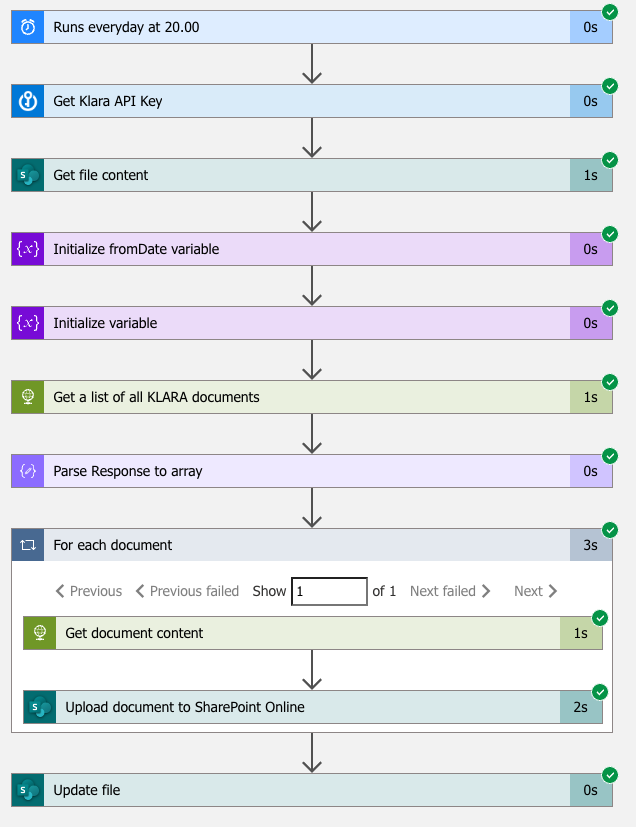
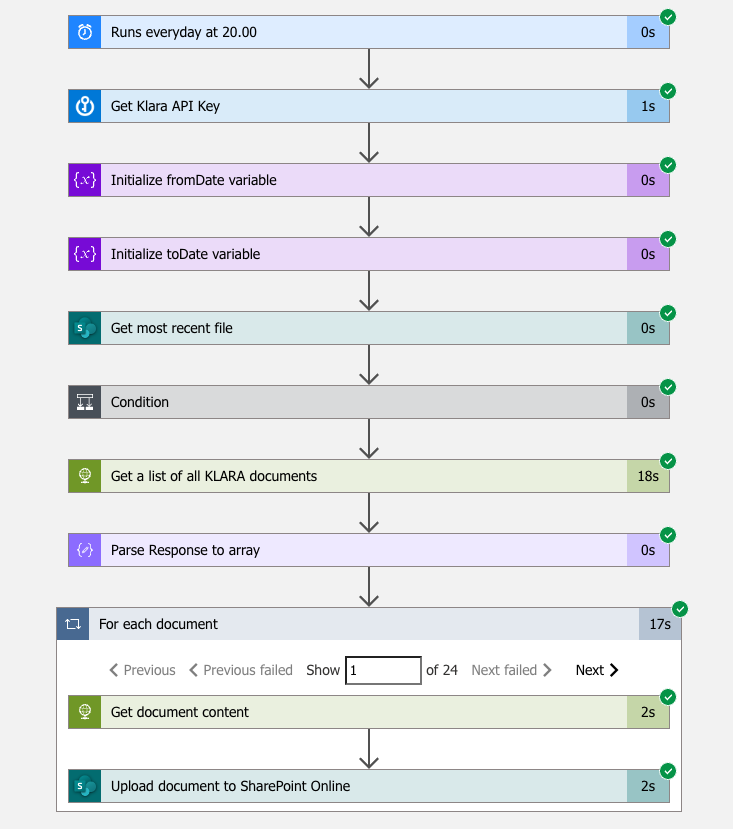
fixed post

Changed region(s): [[0.0, 0.0, 0.9858, 0.9976]]

diff --git a/content/post/epost-digitalisierung-1/index.md b/content/post/epost-digitalisierung-1/index.md
@@ -1,6 +1,6 @@
 ---
 title: Moderne Prozessdigitalisierung - Teil 1
-description: ePost Digitalisierung
+description: Wie wir mit ePost und Azure Logic Apps Briefe empfangen
 slug: epost-digitalisierung-1
 date: 2023-10-19 00:00:00+0000
 image: cover.png
@@ -18,100 +18,97 @@ tags:
     - Prozess   
 ---
 
-## Prozess-Digitalisierung: Das Gegenmittel gegen den Fachkräftemangel
+## Digitalisierung im Geschäftsalltag: Ein Leitfaden für Business Leader
 
-In einer Welt, die zunehmend von Technologie und Daten geprägt ist, kann kein Unternehmen es sich leisten, den Trend der Prozess-Digitalisierung zu ignorieren. Dies wird umso deutlicher, wenn wir die wachsende Herausforderung des Fachkräftemangels miteinbeziehen. Die Digitalisierung von Geschäftsprozessen bietet nicht nur eine Chance, effizienter und wettbewerbsfähiger zu werden, sondern auch, den Mangel an qualifiziertem Personal zu kompensieren. Durch automatisierte Systeme, cloudbasierte Lösungen und innovative Algorithmen können Unternehmen Aufgaben und Workflows optimieren, was wiederum zu einer Entlastung des menschlichen Personals führt.
+In der heutigen, von Technologie durchdrungenen Welt ist die Digitalisierung von Geschäftsprozessen nicht mehr nur ein "Nice-to-have", sondern ein Muss. In diesem Artikel zeigen wir Ihnen, wie Sie mit modernen Tools wie ePost und Azure Logic Apps Ihre Geschäftsprozesse optimieren können.
 
-In diesem Blog Post möchte ich Anhand eines einfachen Beispiel's zeigen, wie Prozess Digitalisierung aussehen kann.
+### Warum Prozessdigitalisierung?
 
-## Der Prozess
+Der Fachkräftemangel ist eine wachsende Herausforderung. Hier kommt die Prozessdigitalisierung ins Spiel: Sie ermöglicht es Unternehmen, effizienter und wettbewerbsfähiger zu werden und den Mangel an qualifiziertem Personal zu kompensieren. Automatisierte Systeme, cloudbasierte Lösungen und innovative Algorithmen können Unternehmen dabei helfen, ihre Workflows zu optimieren.
 
-Bei unscripted nutzen wir das ePost Angebot der schweizerischen Post. Dies ermöglicht es uns, analoge Briefe durch die Post einscannen zu lassen. Wir können die Briefe danach von überall und zentral auf der Weboberfläche einsehen. Leider ist die Weboberfläche sehr limitiert, wir können die Briefe einsehen, herunterladen und manuelle Tags vergeben.
+### Ein praktisches Beispiel: ePost Digitalisierung
 
-Wir sind nun mit einem typisches Problem von vielen SaaS Lösungen konfrontiert. Sie lösen ein Problem, jedoch schaffen sie Datensilos die man selbst integrieren muss. Dies ist vorallem für KMU's eine grosse Herausforderung, da oft das Know-How fehlt wie man die zur verfügung stehenden Schnittstellen nutzen kann.
+Bei unscripted nutzen wir das ePost Angebot der Schweizerischen Post. Dieses System ermöglicht es uns, physische Briefe digitalisieren zu lassen. Aber wie viele SaaS-Lösungen hat auch ePost seine Grenzen. Das Hauptproblem? Datensilos.
 
-In unserem Beispiel werden wir die Daten herunterladen und auf unsere eigene Datenablage speichern. Wir werden die No/Low-Code Plattform Azure Logic Apps verwenden um diesen Prozess abzubilden, da dieser viele Konnektoren für die Verbindung beliebter Services bietet.
+### Die Lösung: Integration mit Azure Logic Apps
 
-## Herangehensweise
+Azure Logic Apps bietet eine No/Low-Code Plattform, die eine einfache Integration ermöglicht. Mit dieser Plattform können wir Daten aus ePost herunterladen und in unserer eigenen Datenablage speichern. 
+
+## Umsetzung
 
 ### Prozess dokumentieren
 
-Um den Prozess zu digitalisieren müssen wir die involvierten Services identifizieren und verstehen, wie wir diese einbinden können. In unserem Beispiel haben wir zwei Services, den ePost Service und unsere Datenablage, in unserem Fall SharePoint. Danach zeichnen wir einen Prozessablauf auf um den Prozess visuell abzubilden. Ich habe diesen einfachen Prozess im untenstehenden BPMN Diagramm abgebildet.
+Um den Prozess zu digitalisieren identifizieren wir die zu integrierenden Services: ePost und SharePoint (unsere Datenablage). Zur Viusalisierung habe ich den Prozess aufgezeichnet.
 
 ![BPMN Diagramm des beschriebenen Prozesses](epost-prozess.png) 
 
-An dieser stelle optimieren wir den Prozess noch ein wenig. Wir wollen ja nicht jedes mal alle Dokumente erneut herunterladen und speichern. Aktuell haben wir noch nicht viele Dokumente im ePost Portal aber nach einigen Geschäftsjahren werden sich dort einige Dokumente ansammeln. Deshalb wollen wir nur die neu hinzugefügten Dokumente herunterladen, was im untenstehenden Diagramm abgebildet ist.
+Um den Prozess noch effizienter zu gestalten, laden wir nur die neuen Dokumente aus ePost herunter, wie im nachfolgenden Prozess abgebildet.
 
 ![Optimierter Prozess](epost-prozess-optimiert.png) 
 
 ### Prozess zur Implementierung
 
-***Überspringe diesen Teil wenn dich der technische Aspekt nicht interessiert***
+***Wenn du die technische Details überspringen möchtest, kannst du zum nächsten Abschnitt weitergehen.***
 
-Nun müssen wir prüfen, wie wir diesen Prozess im Azure Logic App abbilden können. Um die Liste aller Dokumente zu erhalten und diese herunterzuladen gibt es keinen Standard Konnektor in Azure Logic App, deshalb müssen wir die API Schnittstelle der ePost verwenden.
-Für SharePoint gibt es einen Konnektor in Azure Logic Apps, somit können wir die Datenablage einfach integrieren. 
+Um den Prozess in Azure Logic App abzubilden, nutzen wir die den Standard-Konnektor für SharePoint. Für ePost gibt es keinen Standard-Konnektor, hier müssen wir auf die API von ePost zugreifen.
 
-Glücklicherweise hat ePost eine öffentlich zuängliche API [Dokumentation](https://api.klara.ch/docs#) (hier könnten sich einige SaaS Anbieter ein Beispiel nehmen). Mit der Dokumentation werden wir schnell fündig, die benötigen API Endpoints sind `/epost/v2/letters` und `/epost/v2/letters/{letter-id}/content`.
+In der öffentlich zugänglichen API [Dokumentation](https://api.klara.ch/docs#) der ePost (hier könnten sich einige SaaS Anbieter ein Beispiel nehmen) finden wir die benötigten API Endpoints `/epost/v2/letters` und `/epost/v2/letters/{letter-id}/`.
 
 #### Nach neuen Dokumenten filtern
 
-Nun müssen wir uns überlegen, wie wir die die Dokumente filtern können, so das wir nur die noch nicht heruntergeladenen Dokumente erhalten. Im API Endpoint ***/epost/v2/letters*** gibt es die Möglichkeit Dokumente nach Datum zu filtern. Dies können wir verwenden um eine gefilterte Liste zu erhalten. Es würde auch anspruchsvollere Möglichkeiten geben, wie zum Beispiel eine separate Datenbank zu führen aller heruntergeladenen Dokumente und diese zum filtern verwenden. Da es sich hier um ein einfaches Beispiel handelt, werden wir den Datumsfilter verwenden.\
-Um diesen Filter verwenden zu können, muss die Azure Logic App bei jeder durchführung wissen, wann sie das letzte mal durchgeführt wurde. Leider gibt es keine Datenpersistenz zwischen den einzelnen Azure Logic App durchführungen, also müssen wir diese Datenpersistenz selber abbilden. Hierfür haben wir verschiedene Möglichkeiten wie die Verwendung einer Azure SQL Datenbank, Azure Blob Storage oder die Verwendung eines Text Files in SharePoint. Da es sich um einen sehr einfachen Datensatz handelt den wir speichern wollen (letzte Erfolgreiche Durchführung des Azure Logic App's) und da wir bereit eine SharePoint Anbindung benötigen verwenden wir in diesem Beispiel das Text File in SharePoint. 
+Wir filtern Dokumente nach Datum, um nur Neuzugänge herunterzuladen. Da die Azure Logic App keine Datenpersistenz hat, nutzen wir das Erstellungsdatum der neuesten Datei im Zielordner und setzen den Filter auf den folgenden Tag. Alternativen könnten wir auch Azure SQL, Blob Storage oder ein Textfile auf SharePoint hierfür verwenden.
 
 #### Authentifizierung
 
-Natürlich müssen wir uns an der ePost API und in SharePoint auch Authentifizieren, sonst könnte jeder auch unsere gescannten Briefe zugreifen. \
-Da SharePoint in Azure Logic App einen Konnektor hat, ist die Authentifizierung direkt integriert. Man kann sich mit OAuth mit einem Benutzer anmelden, welcher auf die gewünschte Fileablage Zugriff hat. Wir empfehlen hierfür einen dedizierten Benutzer zu verwenden, welcher nur auf die Fileablage Zugriff hat, auf welcher die Briefe gesichert werden sollen.
-Für den API Zugriff der ePost muss ein API key generiert werden. Dieser kann im Portal der ePost erstellt werden. Nun müssen wir den noch irgendwo sicher ablegen. Ich möchte vermeiden, diesen als Klartext Variabel im Azure Logic App Workflow einzufügen, da dieser dort durch unbefugte ausgelesen werden könnte und diese so auf sensible Daten Zugriff erhalten. Daher verwenden wir Azure Keyvault um den API Key zu schützen. Azure Keyvault können wir auch im Azure Logic App mittels Konnektor einfach integrieren. Die Authentifizierung um den Azure Keyvault auszulesen wird über Access Policies des Azure Key Vaults gesteuert, wobei die Azure Logic App sich mit einer Managed Identity am Keyvault authentifizieren kann.
+Für die Authentifizierung in SharePoint nutzen wir den integrierten Azure Logic App Konnektor welcher OAuth verwendet. Ein spezifischer Benutzer mit eingeschränktem Zugriff wird empfohlen. Für die ePost API wird ein API-Schlüssel benötigt, den wir sicher in Azure Keyvault speichern. Die Authentifizierung für den Keyvault erfolgt über dessen Access Policies und die Managed Identity der Azure Logic App.
 
 #### Azure Logic App Workflow
 
-Jetzt können wir mit dem Azure Logic App Designer unseren Prozess digitalisieren! Ich habe den Prozess bereits abgebildet, wie dass aussieht sieht ihr in der untenstehenden Abbildung.
+Jetzt können wir mit dem Azure Logic App Designer unseren Prozess digitalisieren! Wie dass aussieht sieht ihr in der nachfolgenden Abbildung.
 
-![Prozess im Azure Logic App Designer](azure-app-logic-overview.png) 
+![Prozess im Azure Logic App Designer](azure-app-logic-workflow.png) 
 
-Gehen wir die einzelnen Punkte des Prozesses durch.
+Gehen wir die einzelnen Prozessschritte durch.
 
 |Schritt|Typ|Beschreibung|
 |---|---|---|
-|1|Trigger|Hier definieren wie der Prozess gestartet wird. Es handelt sich hier um eine geplante Aktion die nach Zeitplan jeden Tag um 22.00 starten soll.|
-|2|KeyVault Aktion|Hier lesen wir den API Key für die ePost API aus. Dieser wird in allen HTTP Requests für die ePost API benötigt.|
-|3|SharePoint Aktion|Lese Textdatei auf SharePoint um das Datum der letzen erfolgreichen Durchführung der Azure Logic App zu erhalten. Hier ist wichtig zu beachten, dass das File nicht durch den Workflow erstellt wird. Es muss also vor der ersten Ausführung des Workflows vorhanden sein.|
-|4|Variabel initialisieren|Hier definieren wir die Variabel fromDate. Diese wird benötigt um zu definieren welche Dokumente ab welchem Datum berücksichtig werden sollen. Die Variabel wird auf einen Tag nach dem Datum der letzten erfolgreichen Durchführung gesetzt.|
-|5|Variabel initialisieren|Hier definieren wir die Variabel toDate. Diese wird benötigt um zu definieren welche Dokumente bis welches Datum berücksichtig werden sollen. Theoretisch brauchen wir diese Variabel nicht, da uns reichen würde zu definieren, dass wir nur Dokumente ab einem bestimmten Datum herunterladen um die bereits heruntergeladenen Dokumente zu ignorieren. Jedoch wird diese Variabel von der API benötigt, da sie sonst die Dokumente fromDate Variabel ignoriert und keinen Filter anwendet.|
-|6|HTTP Request|Dieser HTTP Request nutzt den API Endpoint `/epost/v2/letters`, dieser gibt uns eine Liste aller Dokumente.|
-|7|Parse JSON|Die Antwort aus dem HTTP Request wird hier zu JSON konvoriert, so dass wir diese in den Nachfolgenden Schritten brauchen können.|
-|8|For-each Schleife|Diese Schleife geht die Liste aller Dokumente durch, die wir im vorherigen HTTP Request erhalten haben. Für jedes Dokument werden nun die Schritte 8.1 und 8.2 durchgeführt.|
-|8.1|HTTP Request|Mit dem API Endpoint `/epost/v2/letters/{letter-id}/content` wird der Inhalt des Dokumentes heruntergeladen.|
-|8.2|SharePoint Aktion|In diesem Schritt wird das hertuntergeladene Dokument in SharePoint hochgeladen. Die hochgeladenen Dateien werden mit Timestamp und Titel welcher von der API zurückgegeben wird benannt.|
-|9|SharePoint Aktion|Schreibe heutiges Datum in SharePoint Text File für die nächste Durchführung.|
+|1|Trigger|Täglicher Start um 22:00.|
+|2|KeyVault Aktion|API Key für ePost API auslesen.|
+|3|Variabel initialisieren|`fromDate` auf 1970-01-01 setzen.|
+|4|Variabel initialisieren|`toDate` definieren (API benötigt es trotz Redundanz).|
+|5|SharePoint Aktion|Neueste Dateien im Verzeichnis abrufen.|
+|6|Conditional|Prüfung: Ist die Dateiliste leer?|
+|6T|Conditional - True|Bei leerer Liste: Keine Aktion.|
+|6F|Conditional - False|Aktionen für nicht-leere Liste.|
+|6F.1|Conditional - False|`fromDate` auf Tag nach neuester Datei setzen.|
+|7|HTTP Request|Dokumentenliste via `/epost/v2/letters` abrufen.|
+|8|Parse JSON|Antwort zu JSON konvertieren.|
+|9|For-each Schleife|Durch Dokumentenliste iterieren.|
+|9.1|HTTP Request|Dokumentinhalt via `/epost/v2/letters/{letter-id}/content` abrufen.|
+|9.2|SharePoint Aktion|Dokument in SharePoint mit Timestamp und Titel hochladen.|
 
 #### Testlauf
 
-Nach dem der Prozess in Azure Logic App abgebildet ist und die nötigen Authentifizierungen vorgenommen wurden können wir einen Testlauf durchführen.
-Im Screenshot ist zu sehen wie jeder Schritt erfolgreich durchläuft und die For-each Schleife einmal durchgeführt wird für ein Dokument.
+Nach der Konfiguration des Workflows und der Authentifizierung können wir testen.
+Im Screenshot ist zu sehen wie jeder Schritt erfolgreich durchläuft und die For-each Schleife 24-mal durchgeführt wird für 24 Dokumente.
 
 ![Screenshot des Workflow Run History](epost-downloader-testlauf.png) 
 
 ## Resultat
 
-Das Endresultat unserer Reise ist ein Ordner mit all den heruntergeladenen Dokumenten. Diese können weiter verwendet werden ohne sich in der ePost Weboberfläche anzumelden.
+Am Ende unserer Implementierung haben wir einen Ordner voller heruntergeladener Dokumente, die ohne ePost-Login zugänglich sind.
 
-Uh oh! Was sehen wir denn da, alle Briefe sind mit dem Titel "Gescannter Brief" betitelt. Dies ist nicht wirklich hilfreich, da wir so jedes PDF aufmachen müssen um das gewünschte PDF zu finden. Das ist leider der ePost geschuldet. Jeder Brief der eingescannt wird, wird mit "Gescannter Brief" betitelt, die Inhalte der Briefe werden nicht verwendet um einen aussagekräftigen Titel zu generieren. Genau hier werden wir im zweiten Teil mit AI ansetzen.
+Allerdings tragen alle Briefe den gleichen Titel: "Gescannter Brief". Das macht die Identifizierung einzelner Dokumente schwierig, da wir jedes PDF öffnen müssen, um den Inhalt zu erkennen. Dies liegt an der Standardbenennung von ePost. Im nächsten Blog Post werden wir mithilfe von AI-Technologie eine Lösung für dieses Problem vorstellen.
 
 ![Screenshot der heruntergeladenen Dateien](epost-downloader-results.png) 
 
 ## Fazit
 
-Ich hoffe dieses einfache Beispiel hat dir einen Einblick in die Möglichkeiten der Digitalisierung von Prozessen gegeben und dich vielleicht sogar angeregt selber Prozesse in deinem Unternehmen zu digitalisieren.
+Die Digitalisierung von Geschäftsprozessen ist mehr als nur ein Trend; sie ist eine Notwendigkeit. Mit den richtigen Tools und einem klaren Verständnis der zugrunde liegenden Prozesse kannst auch du die Vorteile der Digitalisierung nutzen.
 
-Mit Azure Logic App ist es auch Personen möglich Prozesse zu digitalisieren ohne tiefgreifende Programmiererfahrung. Jedoch braucht es ein gewisses Technologie Verständnis und Neugier sich in neue Themen einzuarbeiten.
-
-An diesem Punkt will ich auch erwähnen, dass der implementierte Prozess stark vereinfacht ist. Ich habe einfachheisthabler Checks wie zum Beispiel, die Überprüfung ob das Text File im SharePoint existiert nicht implementiert und es gibt auch kein wirkliches Error Handling. Bei einem Fehler in einem der Schritte wird der Prozess abgebrochen.
+So einen Prozess zu implementieren muss nicht kostspielig sein und kann schnell umgesetzt werden. Hast du in deinem Unternehmen ähnliche Herausforderungen? Schreib mir eine [Mail](mailto:loris@unscripted.ch) oder chatte mich an in [Microsoft Teams](https://link.unscripted.ch/teamschat_l).
 
 **Im zweiten Teil des Blogpost's machen wir den Prozess "smart" in dem wir AI Services nutzen.**
-
-Falls du dich zu den Möglichkeiten der Digitalisierung austauschen möchtest, kannst du mich in [Microsoft Teams](https://link.unscripted.ch/teamschat_l) anchatten/anrufen oder per [Mail](mailto:loris@unscripted.ch) erreichen.
 
 
 
